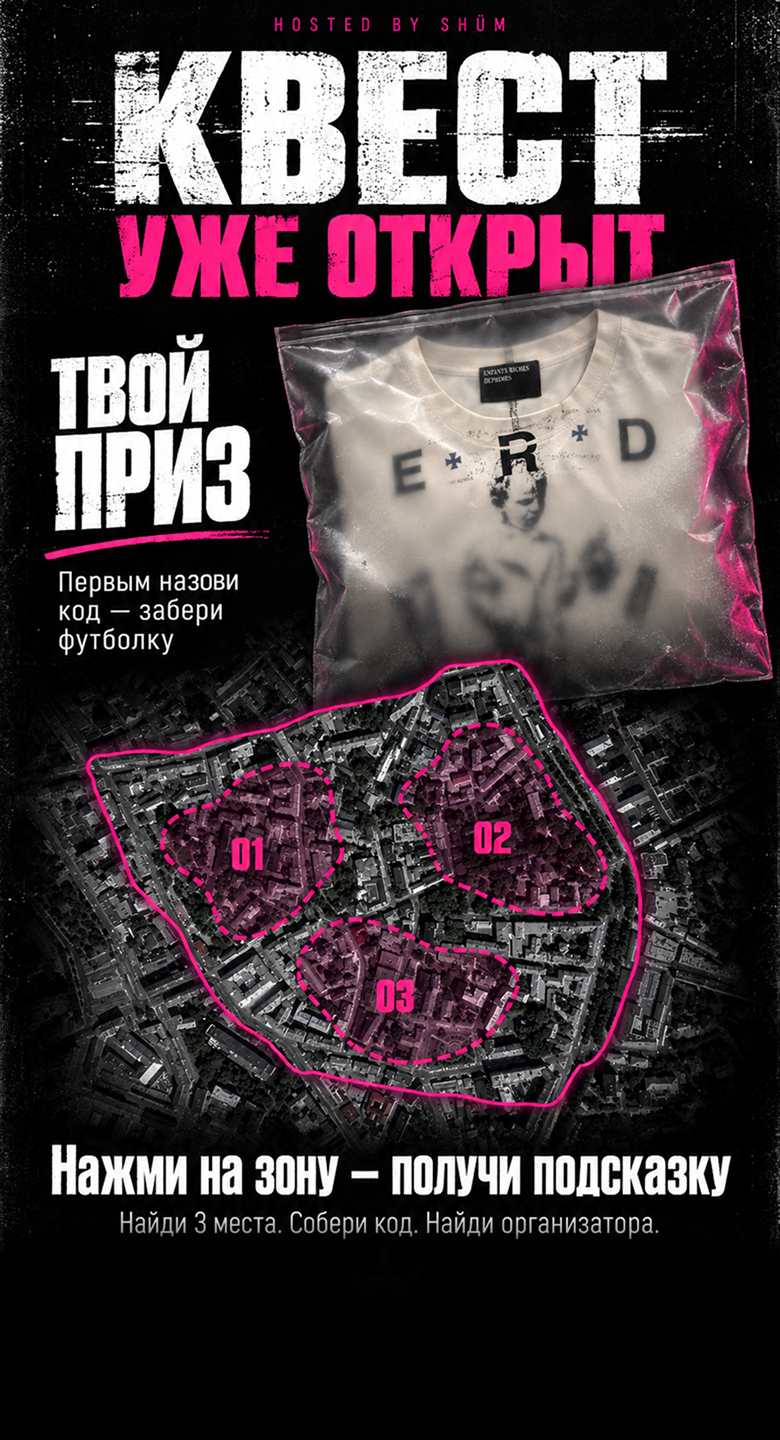
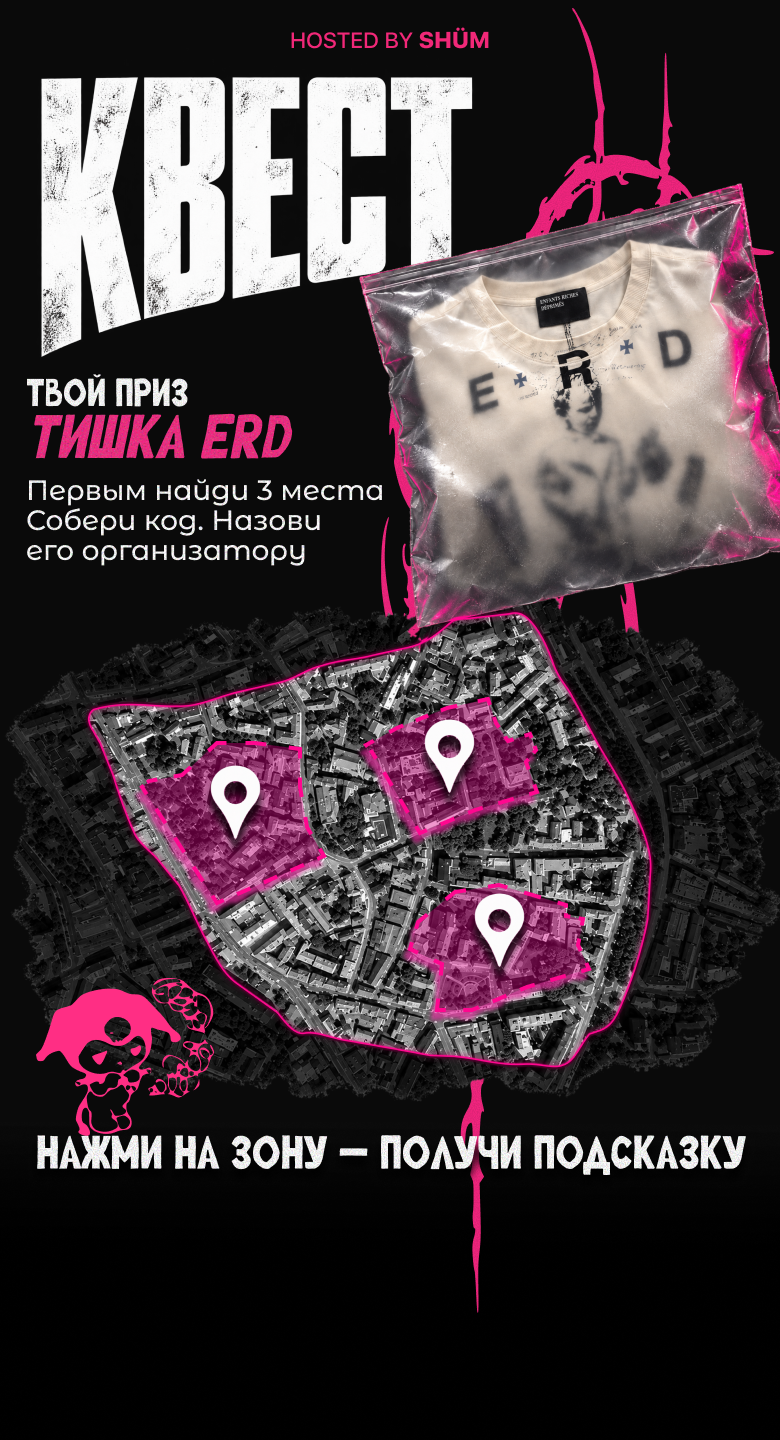
Rebuild Geo assets with updated background

diff --git a/site/index.html b/site/index.html
@@ -13,7 +13,7 @@
           lineup: "backgrounds/lineup.png?v=7d078d4963",
           bar: "backgrounds/bar/back.png?v=20260914bar1",
           rsvp: "backgrounds/rsvp.png?v=4099bfd00d",
-          geo: "backgrounds/geo.png?v=af0cd09076",
+          geo: "backgrounds/geo.png?v=20260915geoback2",
         };
         const requestedPage = window.location.hash.slice(1).toLowerCase();
         const initialPage = Object.prototype.hasOwnProperty.call(sources, requestedPage)
@@ -139,11 +139,11 @@
             />
           </div>
           <img class="background" data-background="rsvp" data-src="backgrounds/rsvp.png?v=4099bfd00d" width="780" height="1440" decoding="async" alt="" />
-          <img class="background" data-background="geo" data-src="backgrounds/geo.png?v=af0cd09076" width="780" height="1440" decoding="async" alt="" />
+          <img class="background" data-background="geo" data-src="backgrounds/geo.png?v=20260915geoback2" width="780" height="1440" decoding="async" alt="" />
         </div>
 
         <div class="geo-lock-overlay" data-geo-lock-overlay aria-hidden="true">
-          <img class="geo-lock-composite" data-geo-lock-image data-src="backgrounds/geo/geo-locked.webp?v=20260915geolocked2" width="780" height="1440" decoding="async" alt="" draggable="false" />
+          <img class="geo-lock-composite" data-geo-lock-image data-src="backgrounds/geo/geo-locked.webp?v=20260915geoback2" width="780" height="1440" decoding="async" alt="" draggable="false" />
         </div>
 
         <button class="geo-eye-toggle" data-geo-eye-toggle type="button" aria-label="Показать закрытую версию Гео" aria-pressed="false">
